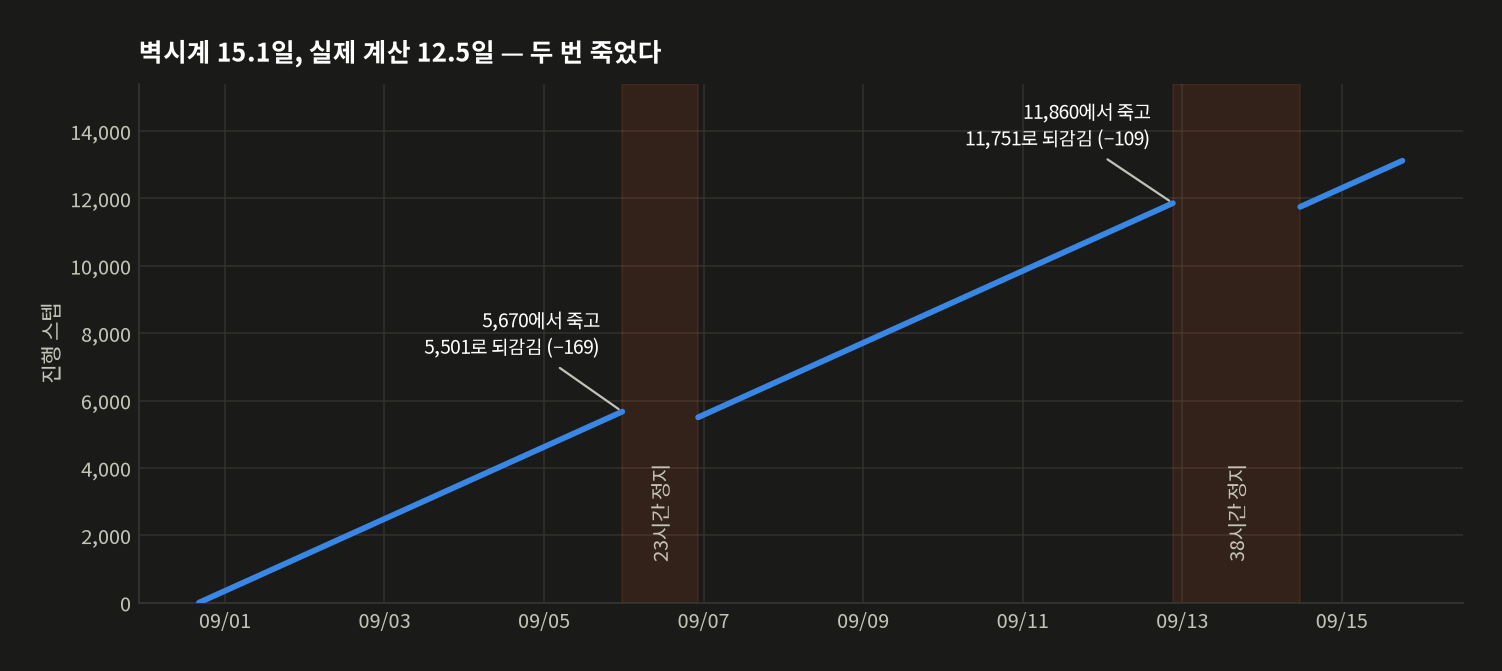
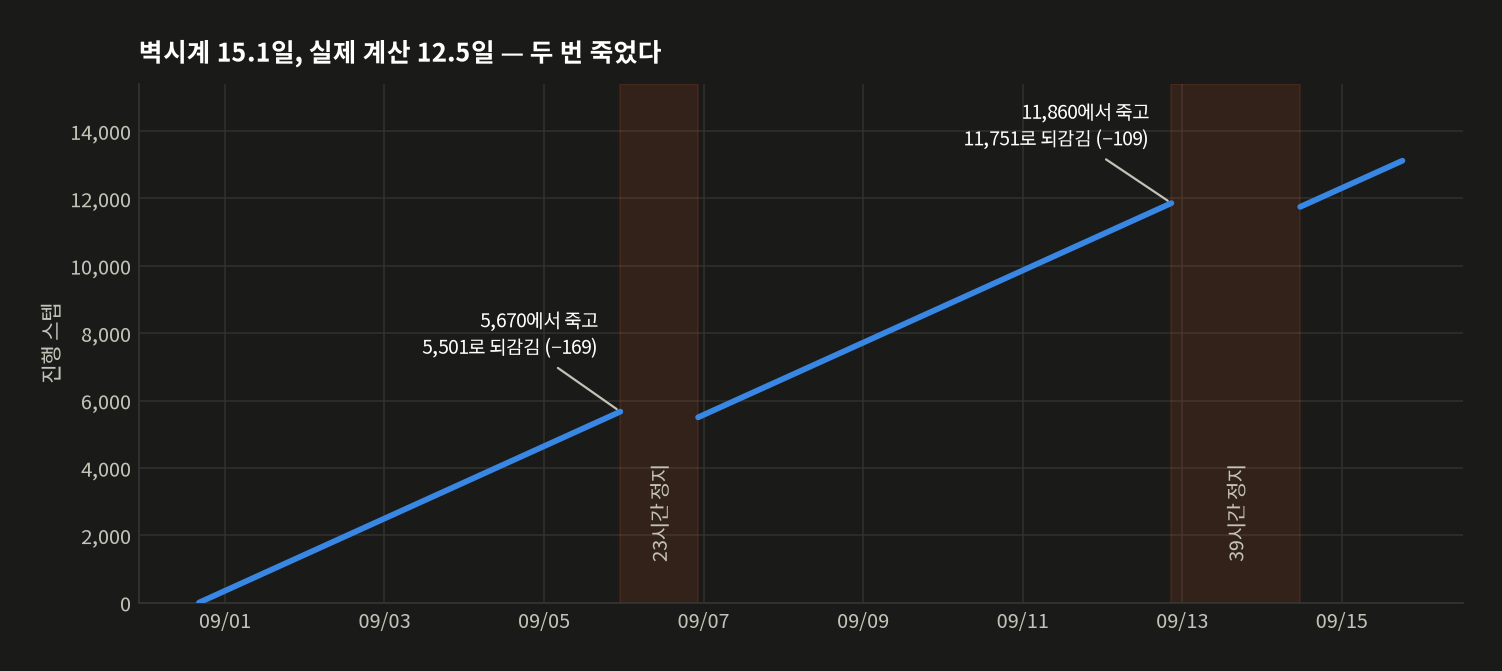
사망 시각을 처리량 추정에서 기록값으로 바꾼다
앞 커밋은 시작 시각과 스텝 수만 앵커로 두고 그 사이를 실측 처리량으로
채워 사망 시각을 역산했다. 그때 사람이 확인해 적어둔 시각이 따로 있으니
추정할 이유가 없다. 1차 09-05 22:57, 2차 09-12 20:45.

정지 구간이 22.8/38.3시간에서 23.4/38.8시간으로, 실제 계산이 12.54일에서
12.50일로 바뀐다.

diff --git a/scripts/plot_training.py b/scripts/plot_training.py
@@ -14,7 +14,7 @@ from __future__ import annotations
 import argparse
 import json
 import sys
-from datetime import datetime, timedelta
+from datetime import datetime
 from pathlib import Path
 
 sys.stdout.reconfigure(encoding="utf-8", errors="replace")
@@ -42,14 +42,14 @@ THEMES = {
     ),
 }
 
-# 학습 이력. watchdog.log와 train_stdout.log의 [detached] 헤더에서 읽은 값이다.
-#   (시작 시각, 시작 iter, 죽은/끝난 iter)
+# 학습 이력. 시작 시각은 train_stdout.log의 [detached] 헤더, 사망 시각은
+# 그때 사람이 확인해 적어둔 값이다(로그에 스텝별 시각이 없어 추정하지 않는다).
+#   (시작 시각, 시작 iter, 끝 iter, 끝난 시각)
 RUNS = [
-    (datetime(2026, 8, 31, 16, 10, 35), 0, 5670),
-    (datetime(2026, 9, 6, 22, 21, 5), 5501, 11860),
-    (datetime(2026, 9, 14, 11, 30, 18), 11751, 13120),
+    (datetime(2026, 8, 31, 16, 10, 35), 0, 5670, datetime(2026, 9, 5, 22, 57)),
+    (datetime(2026, 9, 6, 22, 21, 5), 5501, 11860, datetime(2026, 9, 12, 20, 45)),
+    (datetime(2026, 9, 14, 11, 30, 18), 11751, 13120, datetime(2026, 9, 15, 18, 15, 19)),
 ]
-RUN_END = datetime(2026, 9, 15, 18, 15, 19)
 
 
 def load():
@@ -168,25 +168,21 @@ def fig_schedule(train, t, path):
 def fig_timeline(t, path):
     """벽시계 대비 진행 스텝. 학습이 두 번 죽었고 얼마를 잃었는지 보여준다.
 
-    구간 안의 기울기는 실측 처리량으로 그린다. 로그에 스텝별 시각이 없어서,
-    시작 시각/시작 스텝/끝 스텝 세 앵커 사이를 일정 속도로 잇는다. 처리량이
-    전 구간 6,505~6,524 tok/s로 평평했으므로 이 근사는 안전하다.
+    구간의 양끝은 기록된 시각이고 그 사이는 직선으로 잇는다. 처리량이 전
+    구간 6,505~6,524 tok/s로 평평했으므로 직선 근사가 실제와 거의 같다.
     """
     fig, ax = plt.subplots(figsize=(9.2, 4.0), facecolor=t["surface"])
 
-    sec_per_iter = (RUN_END - RUNS[2][0]).total_seconds() / (RUNS[2][2] - RUNS[2][1])
-    wall = (RUN_END - RUNS[0][0]).total_seconds() / 86400
-    computed = sum(i1 - i0 for _, i0, i1 in RUNS)   # 되감긴 스텝은 두 번 계산된다
-    compute = computed * sec_per_iter / 86400
-    ends = []
-    for i, (start, i0, i1) in enumerate(RUNS):
-        end = start + timedelta(seconds=(i1 - i0) * sec_per_iter)
-        ends.append(end)
+    wall = (RUNS[-1][3] - RUNS[0][0]).total_seconds() / 86400
+    computed = sum(i1 - i0 for _, i0, i1, _ in RUNS)  # 되감긴 스텝은 두 번 센다
+    compute = sum((e - s).total_seconds() for s, _, _, e in RUNS) / 86400
+    ends = [end for _, _, _, end in RUNS]
+    for i, (start, i0, i1, end) in enumerate(RUNS):
         ax.plot([start, end], [i0, i1], color=t["s1"], linewidth=2.6,
                 solid_capstyle="round", zorder=3,
                 label="학습 진행" if i == 0 else None)
 
-    for (end, (nstart, ni0, _)) in zip(ends, RUNS[1:]):
+    for (end, (nstart, ni0, _, _)) in zip(ends, RUNS[1:]):
         # 죽은 지점에서 재개 지점까지. 세로 낙차가 되돌아간 스텝이다.
         ax.plot([end, nstart], [0, 0], color=t["surface"], linewidth=0)
         ax.axvspan(end, nstart, color=t["s2"], alpha=0.13, zorder=1)
@@ -196,7 +192,7 @@ def fig_timeline(t, path):
             ha="center", rotation=90, va="bottom",
         )
 
-    for end, (_, ni0, _), (_, _, pi1) in zip(ends, RUNS[1:], RUNS[:-1]):
+    for end, (_, ni0, _, _), (_, _, pi1, _) in zip(ends, RUNS[1:], RUNS[:-1]):
         ax.annotate(
             f"{pi1:,}에서 죽고\n{ni0:,}로 되감김 (−{pi1 - ni0})",
             xy=(end, pi1), xytext=(-10, 26), textcoords="offset points",
@@ -211,8 +207,8 @@ def fig_timeline(t, path):
     style(ax, t, "", "진행 스텝",
           f"벽시계 {wall:.1f}일, 실제 계산 {compute:.1f}일 — 두 번 죽었다")
     print(f"  벽시계 {wall:.2f}일 / 계산 {compute:.2f}일 / "
-          f"{sec_per_iter:.1f}초·스텝 / 중복 계산 {computed - RUNS[-1][2]:,}스텝")
-    for end, (nstart, _, _) in zip(ends, RUNS[1:]):
+          f"중복 계산 {computed - RUNS[-1][2]:,}스텝")
+    for end, (nstart, _, _, _) in zip(ends, RUNS[1:]):
         print(f"  정지 {end:%m-%d %H:%M} -> {nstart:%m-%d %H:%M} "
               f"({(nstart - end).total_seconds() / 3600:.1f}시간)")
     fig.tight_layout()
